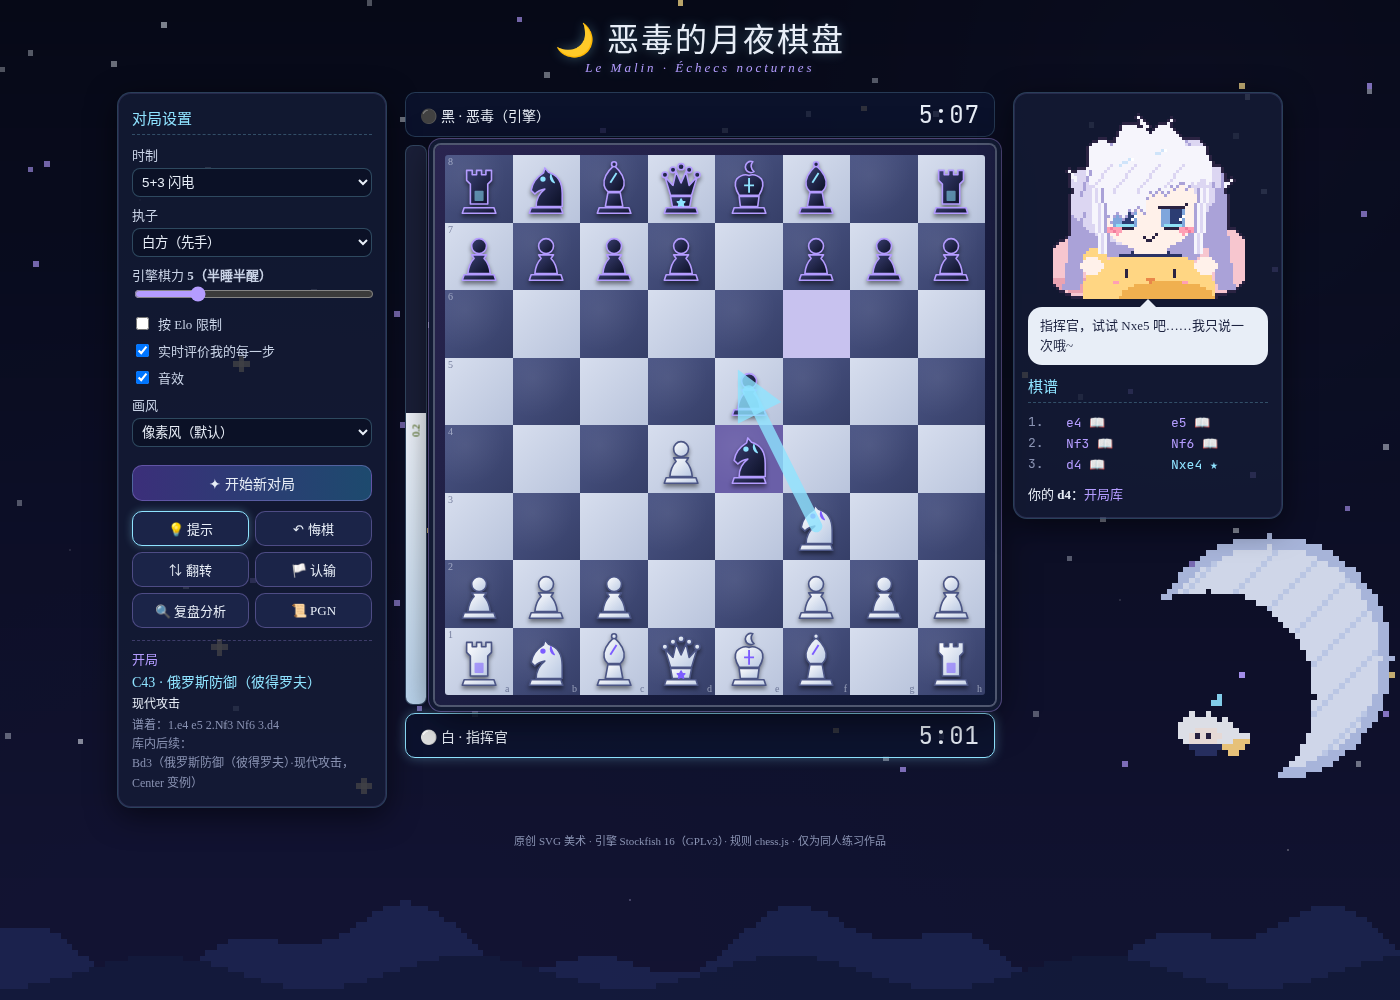
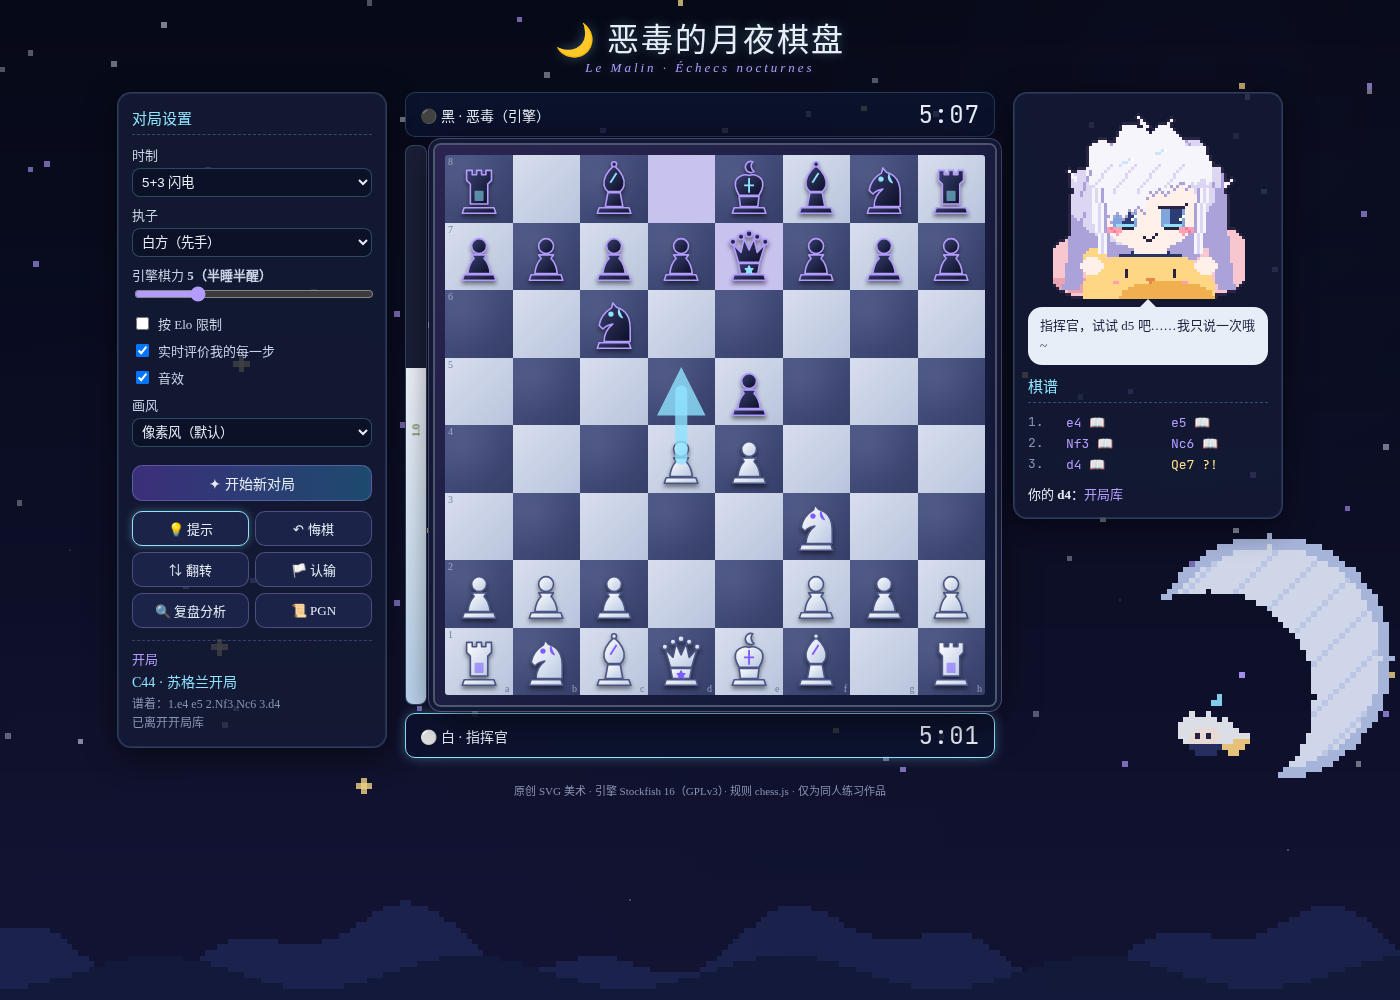
fix pixel.js header

diff --git a/pixel.js b/pixel.js
@@ -1,5 +1,5 @@
-// 原创像素风 Q版「恶毒」：64x64 网格程序化绘制（参考官方配色元素，非描摹）
 // 原创像素风 Q版「恶毒」：64x64 网格程序化绘制（蓬松白发、侧扫刘海、抱黄色小鸡抱枕；仅参考配色元素，非描摹）
+export const PAL = {
   o:'#2b2342', // 轮廓
   h:'#f6f5fc', H:'#dcd6f2', j:'#aaa2d8', l:'#cfe4fa', P:'#f27c9c', r:'#f7c6cf', R:'#eaa3b2', Y:'#f0b04f', q:'#e9874a', // 头发 亮/中/暗
   s:'#fff1ea', S:'#f6d6cf',             // 皮肤
